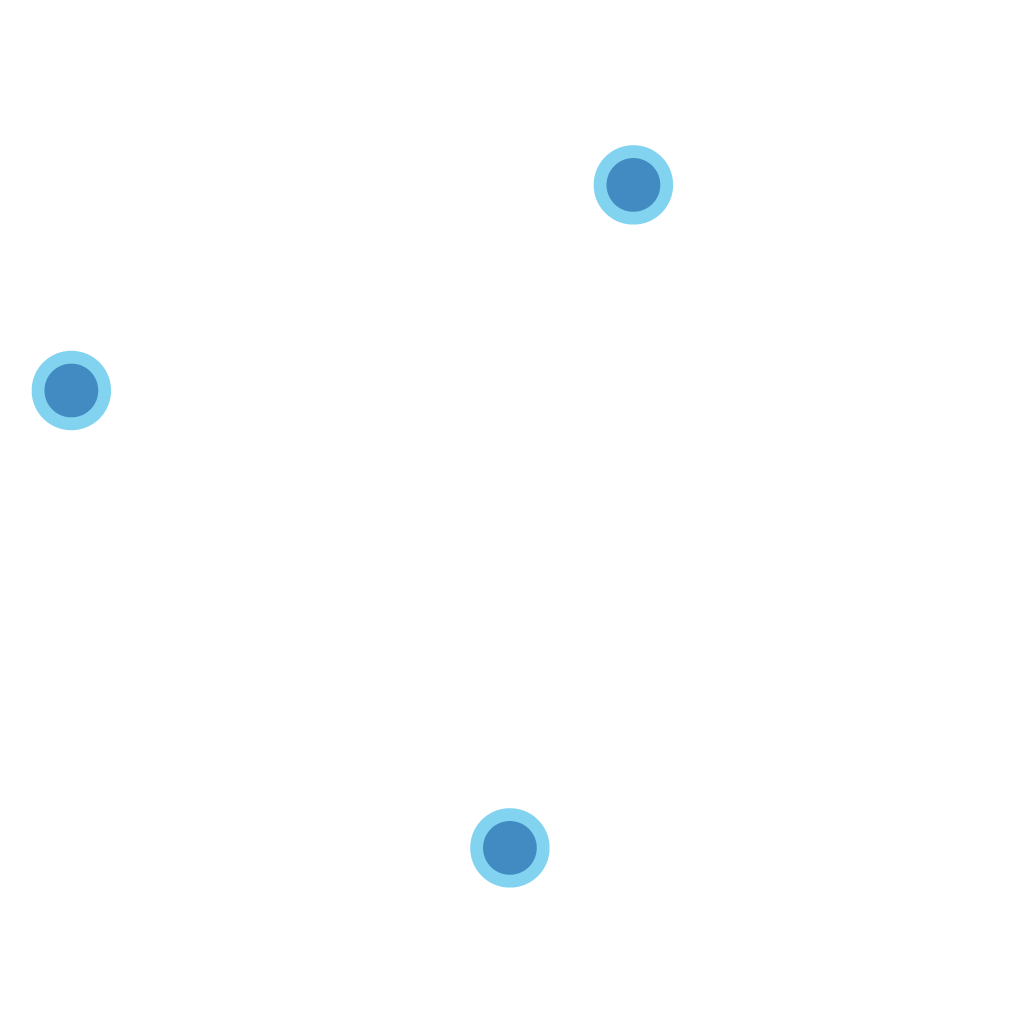
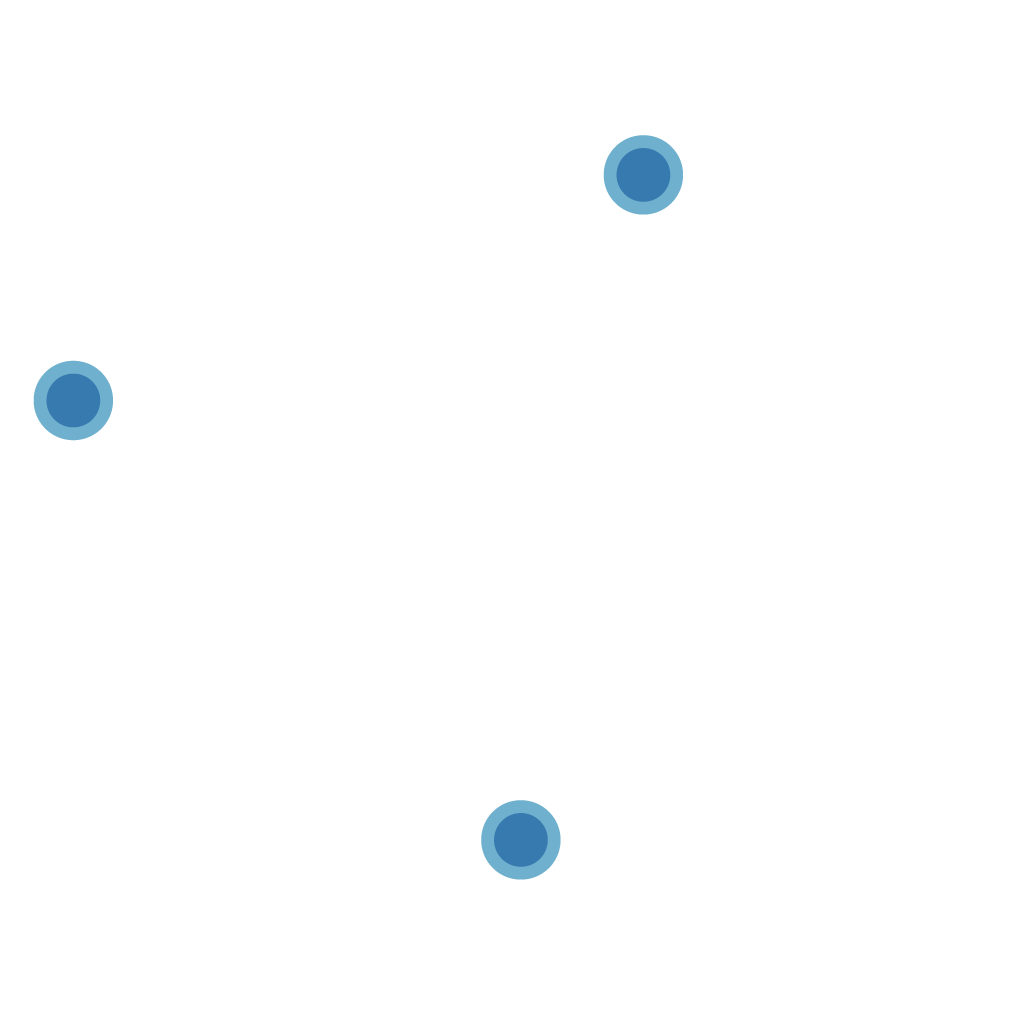
new image files and peroxisomes animated

Changed region(s): [[0.5769, 0.1245, 0.668, 0.2179], [0.4554, 0.7782, 0.5465, 0.8716], [0.0304, 0.3424, 0.1214, 0.4358]]

diff --git a/lib/views/screens/cell_page/animations/cell_animation_delegate.dart b/lib/views/screens/cell_page/animations/cell_animation_delegate.dart
@@ -99,6 +99,14 @@ class CellAnimationDelegate {
         );
       case Organelle.vacuoles:
         return Transform.scale(
+          scale: 1.006,
+                  child: RibosomeAnimation(
+            path: organelleInfo.mainImagePath,
+            persistant: true,
+          ),
+        );
+      case Organelle.peroxisome:
+        return Transform.scale(
           scale: 1.01,
                   child: RibosomeAnimation(
             path: organelleInfo.mainImagePath,
